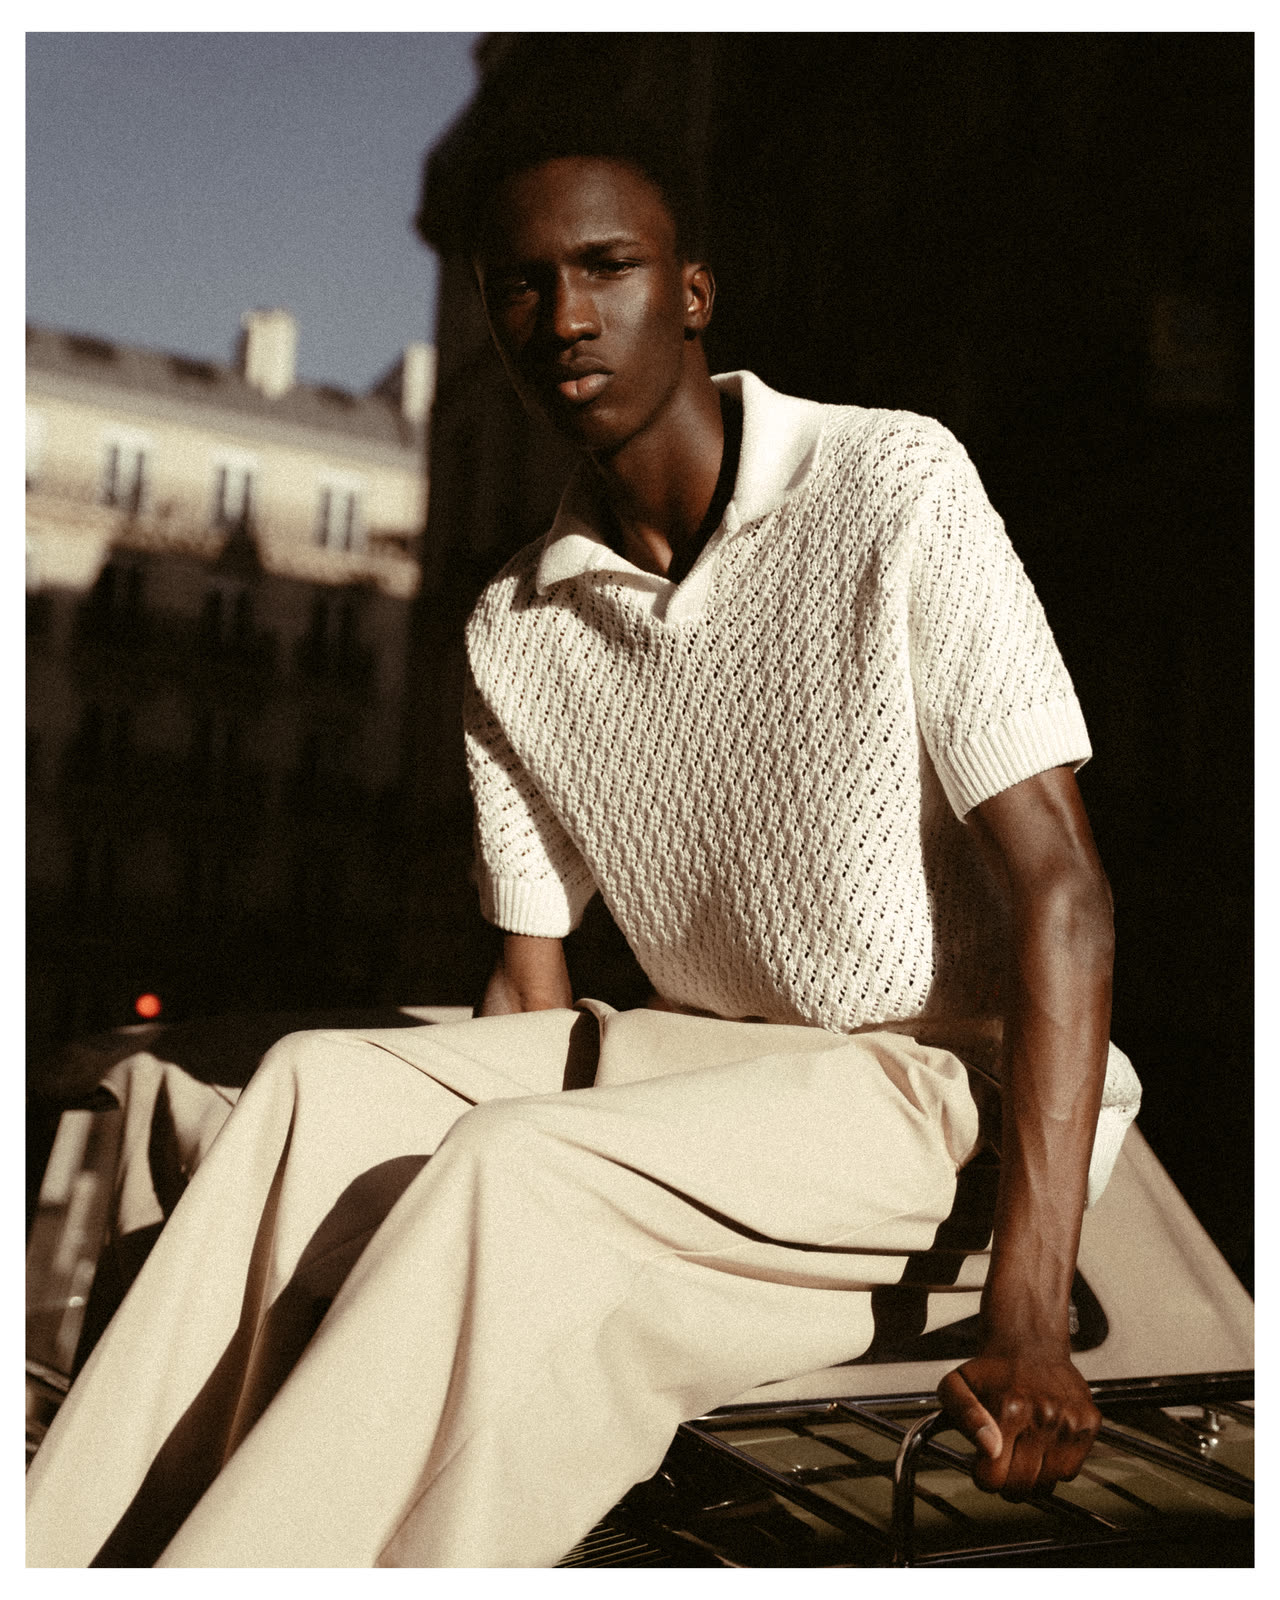
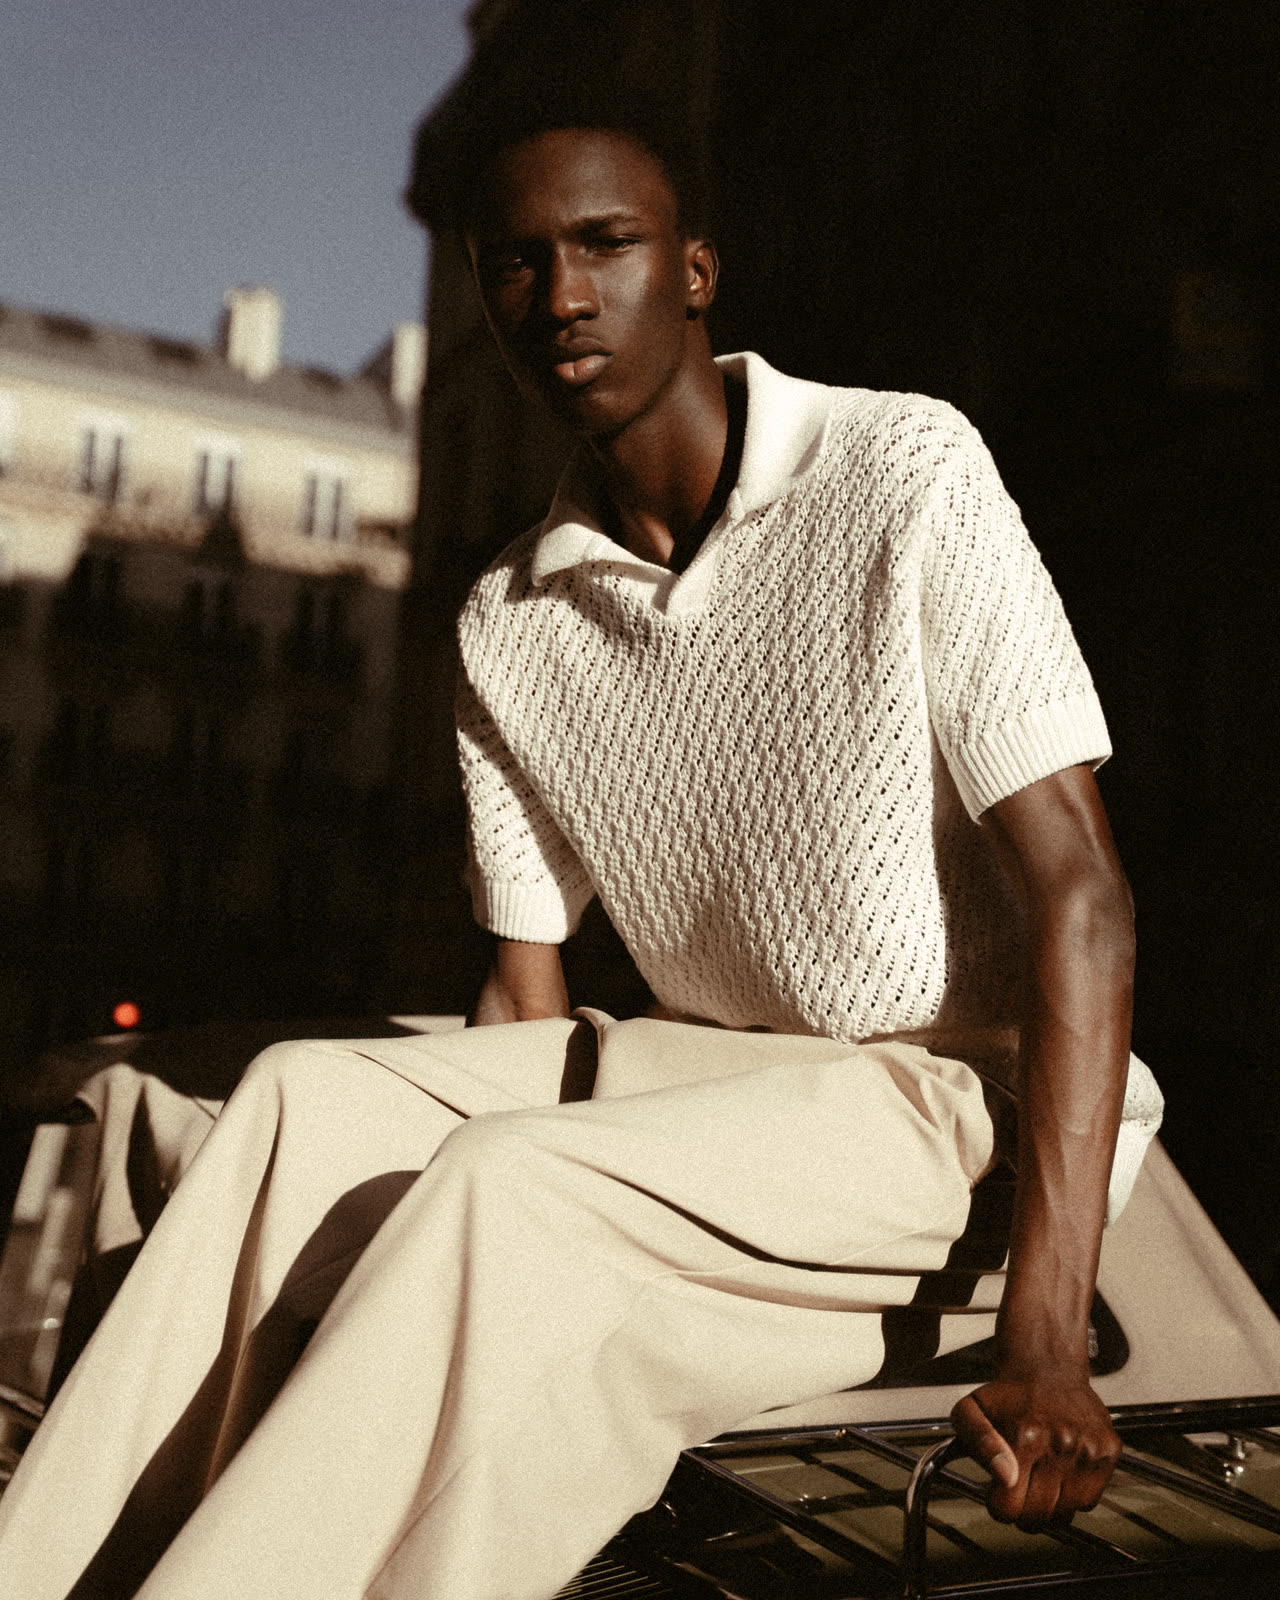
Formules Book : photos tirées au hasard à chaque visite ; bords blancs retirés (baba-3, omo-ita-4, pfw)

diff --git a/app.js b/app.js
@@ -49,6 +49,19 @@ const CONFIG = {
   }
 };
 
+/* Formules Book : photos tirées au hasard à chaque visite parmi tout le book du studio.
+   Jamais la même photo dans deux formules ; celles vues à la visite précédente passent en dernier. */
+const BOOK_PHOTOS = ['adri-14', 'adri-6', 'baba-3', 'baba-4', 'bleueno-14', 'bleueno-33', 'frame-49', 'jaja-2-38', 'jaja-38', 'keiishah-14', 'lindsay-11',
+  'math-part-1-20', 'melancholia-1', 'muse-8', 'olivia2-3', 'omo-ita-4', 'pfw-10', 'pfw-6', 'pfw-7', 'sab-20', 'sofia-11', 'sofia-6', 'sterre-2-17'].map(n => 'book/' + n + '.jpg');
+(function shuffleBooks() {
+  let last = []; try { last = JSON.parse(localStorage.getItem('dake-book-last') || '[]'); } catch (e) {}
+  const mix = a => { a = a.slice(); for (let i = a.length - 1; i > 0; i--) { const j = Math.floor(Math.random() * (i + 1)); [a[i], a[j]] = [a[j], a[i]]; } return a; };
+  const pool = [...mix(BOOK_PHOTOS.filter(f => !last.includes(f))), ...mix(BOOK_PHOTOS.filter(f => last.includes(f)))];
+  const shown = [];
+  CONFIG.offers.filter(o => ['decouverte', 'book', 'signature'].includes(o.id)).forEach(o => { o.images = pool.splice(0, o.images.length); shown.push(...o.images); });
+  try { localStorage.setItem('dake-book-last', JSON.stringify(shown)); } catch (e) {}
+})();
+
 const $ = (s, r = document) => r.querySelector(s);
 const $$ = (s, r = document) => Array.from(r.querySelectorAll(s));
 const nf = new Intl.NumberFormat('fr-FR');
